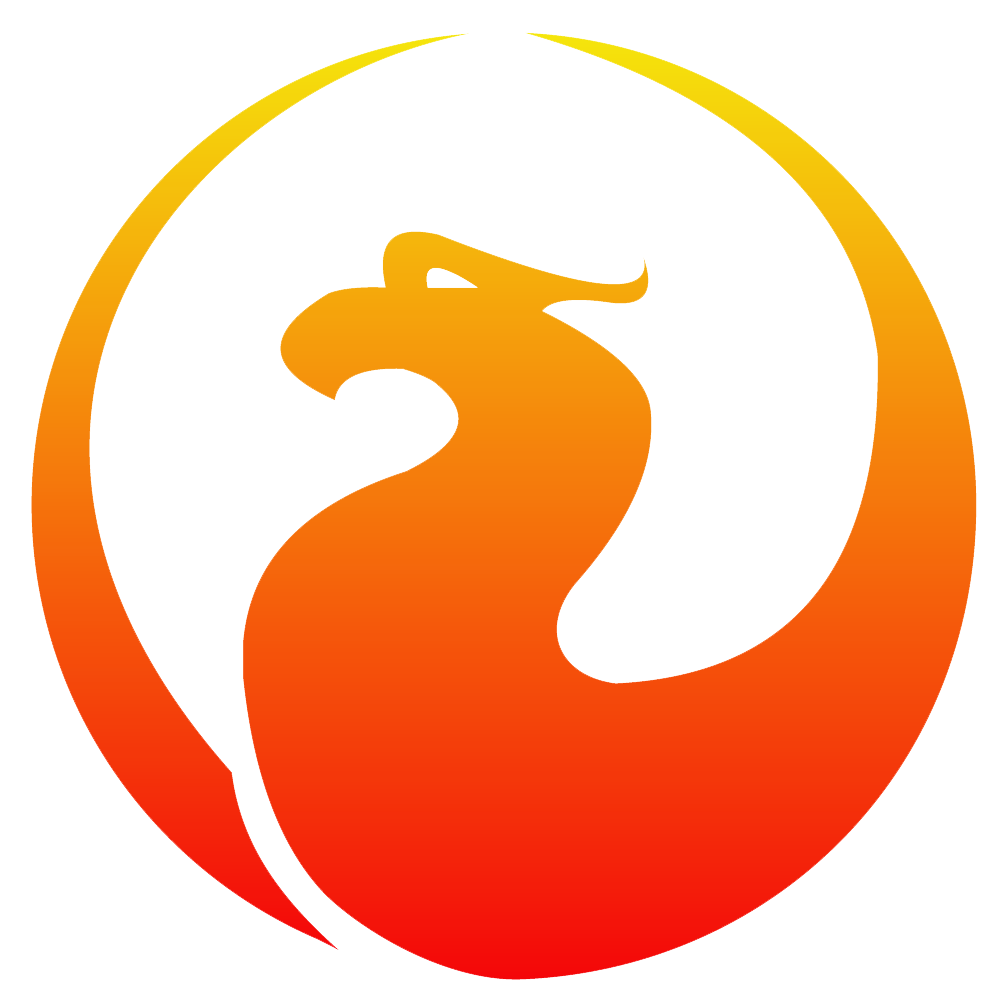
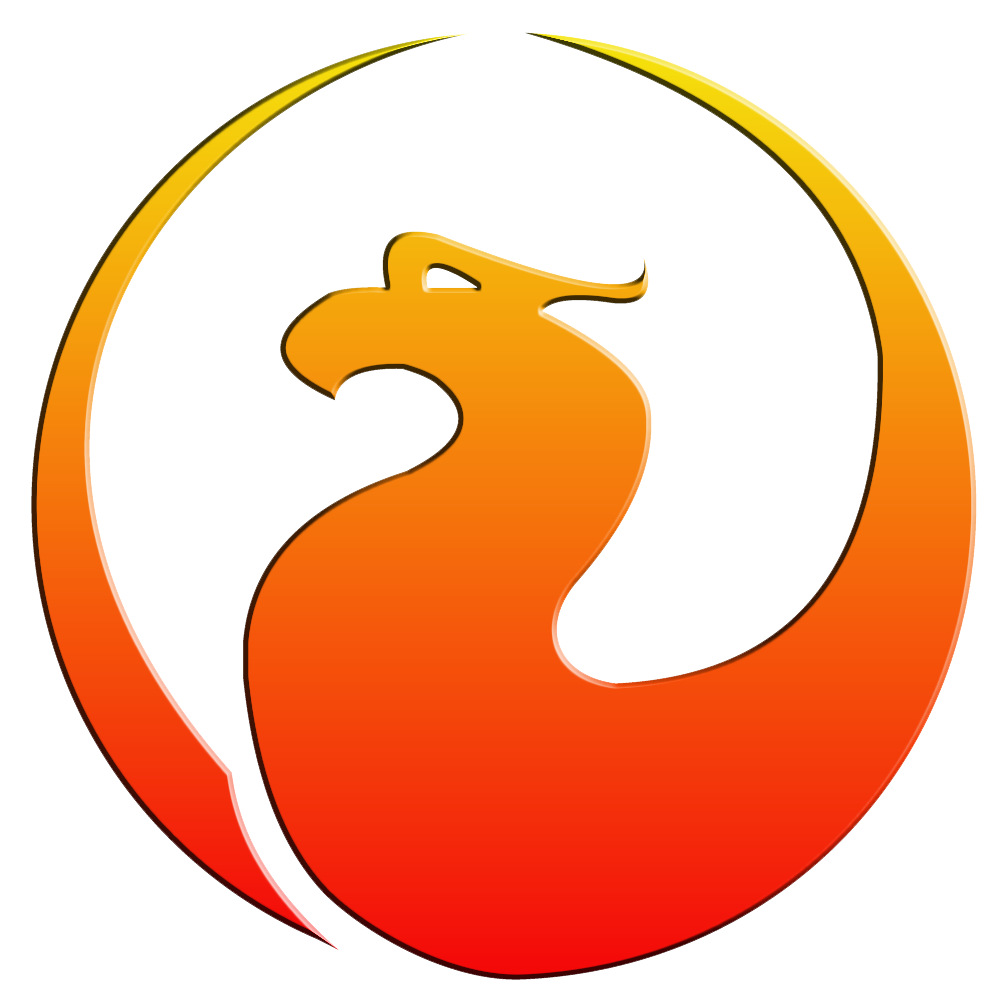
Updates: -added background to the header -added small shadow to the header

diff --git a/css/style.css b/css/style.css
@@ -26,7 +26,10 @@ body{
     background-repeat: no-repeat;
     background-size: contain;
     background-position: right;
+    background-color: #FF8F2E;
+    box-shadow: 0 0 10px black;;
 }
+
 
 .jumbotron h1 {
     padding-left: 2%;
